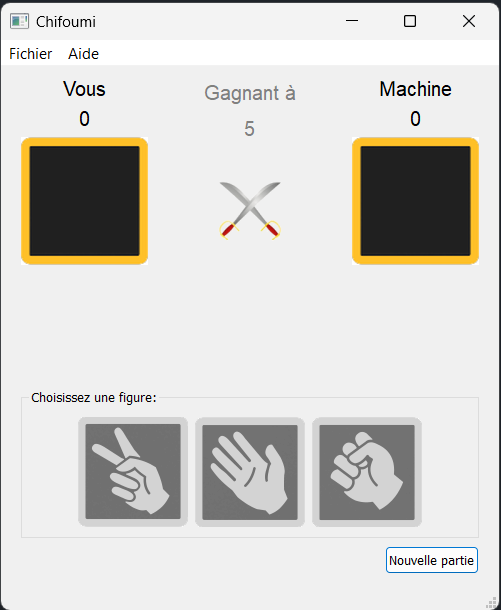
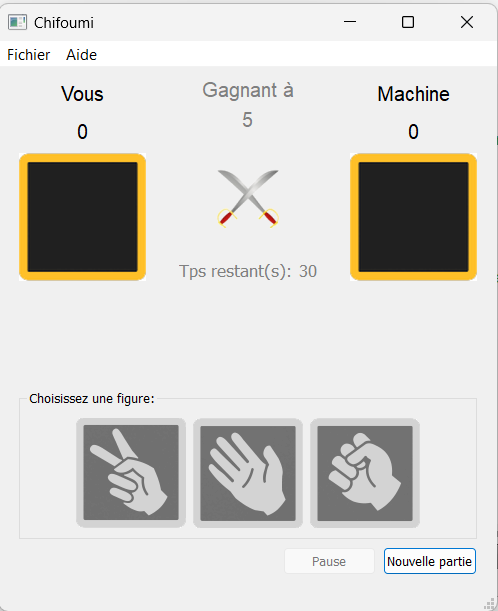
Maj README + image README

diff --git a/README.md b/README.md
@@ -100,7 +100,7 @@ Pour plus d'informations, se référer au docs
 - [ ] v2 Le code source est structuré selon le modèle MVC. Amélioration de l’organisation du code
 - [x] v3 Le menu Fichier >> Quitter permet d’arrêter l’application. Le menu Aide >> A propos de… ouvre une Boîte de Message donnant des informations
 - [x] v4 Le jeu se joue en X points, 5 par défaut.
-- [ ] v5 Le jeu se joue en temps limité, 30 secondes par défaut.
+- [x] v5 Le jeu se joue en temps limité, 30 secondes par défaut.
 - [ ] v6 L’utilisateur peut modifier différents paramètres avant de commencer la partie : son nom, le nombre max. de points, le temps max. à jouer
 - [ ] v7 Le nom du joueur est enregistré dans une base de données.
 - [ ] v8 A la fin de la partie, le système enregistre dans la base de données le résultat de la partie
